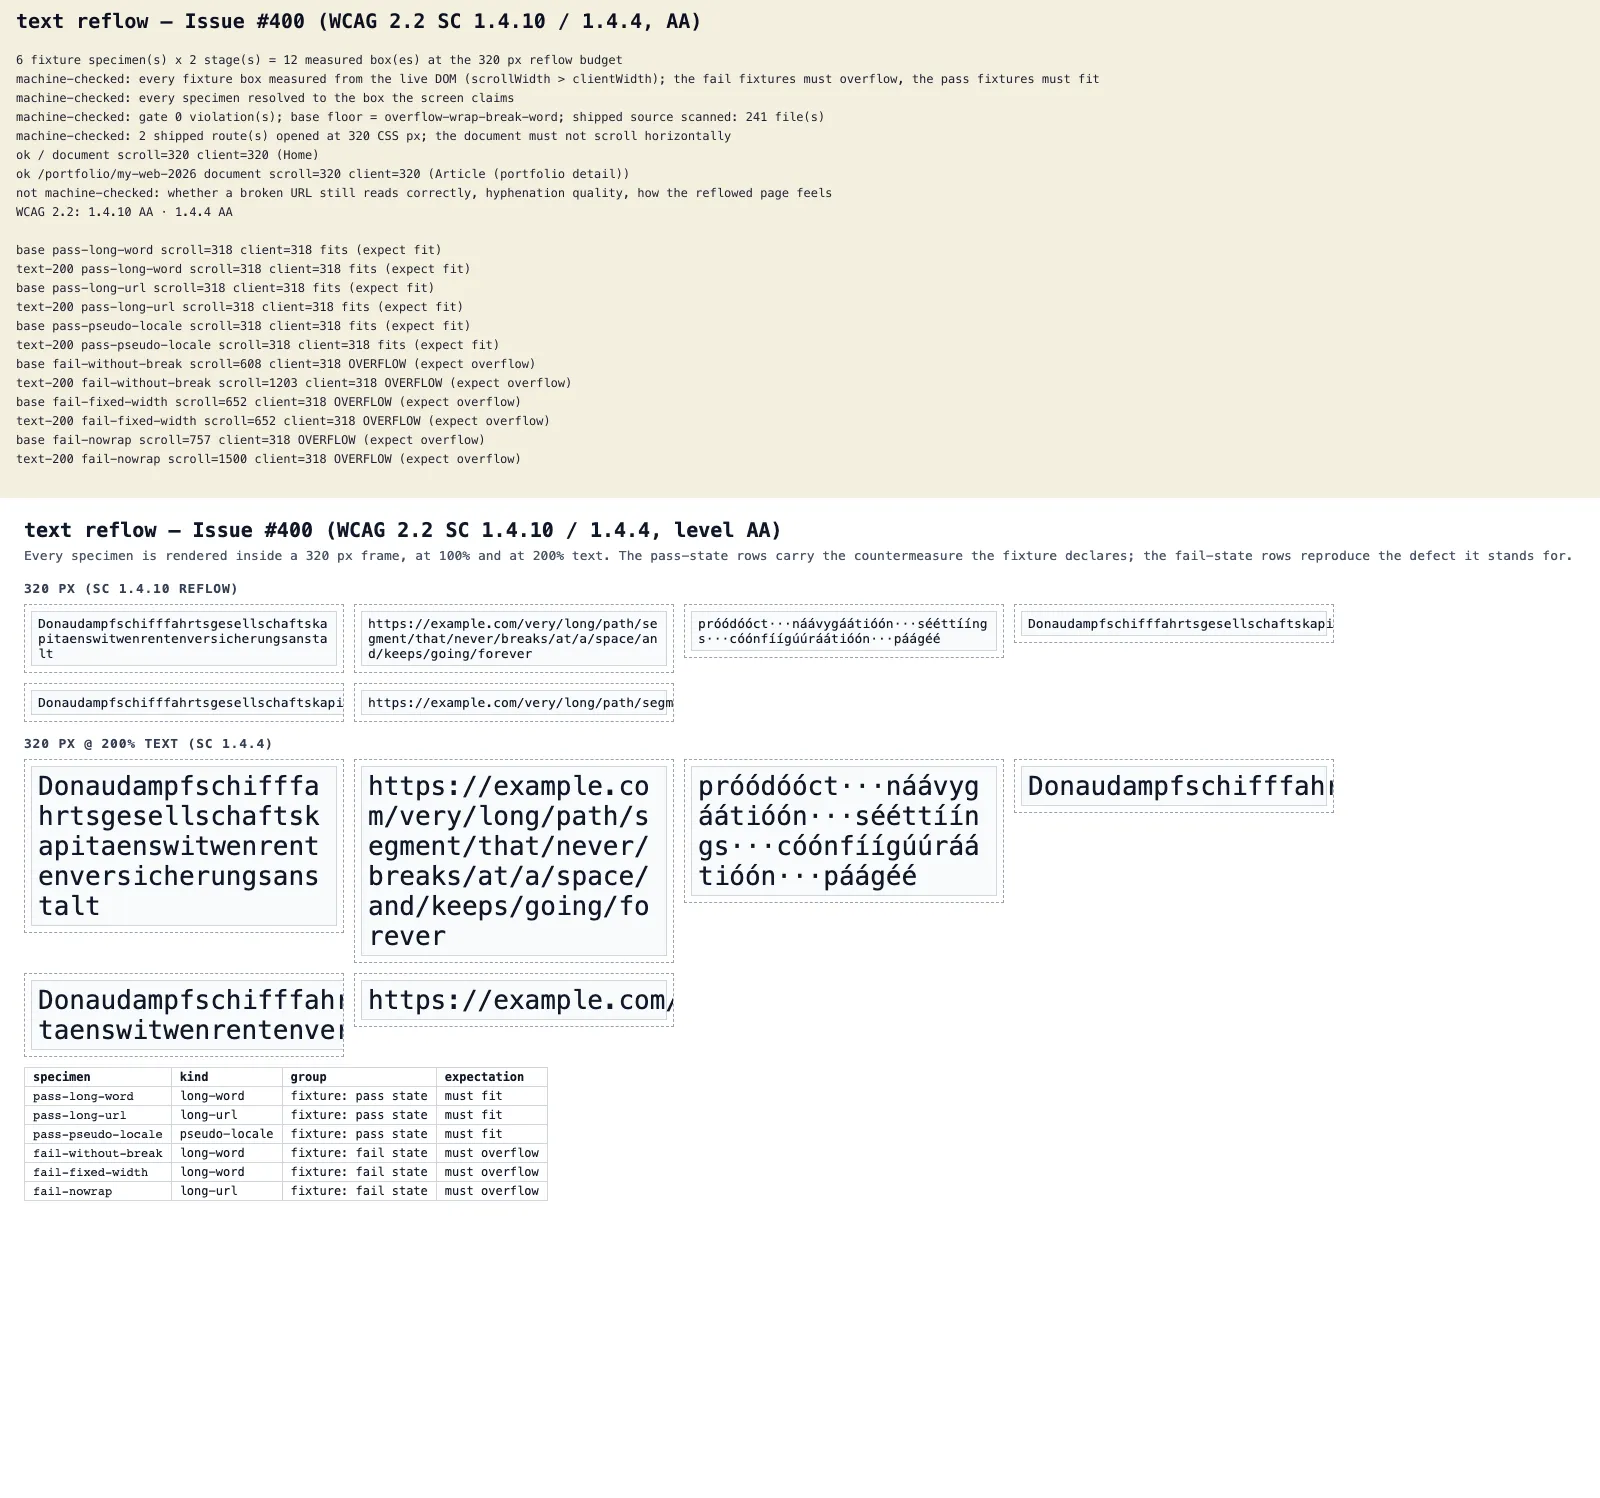
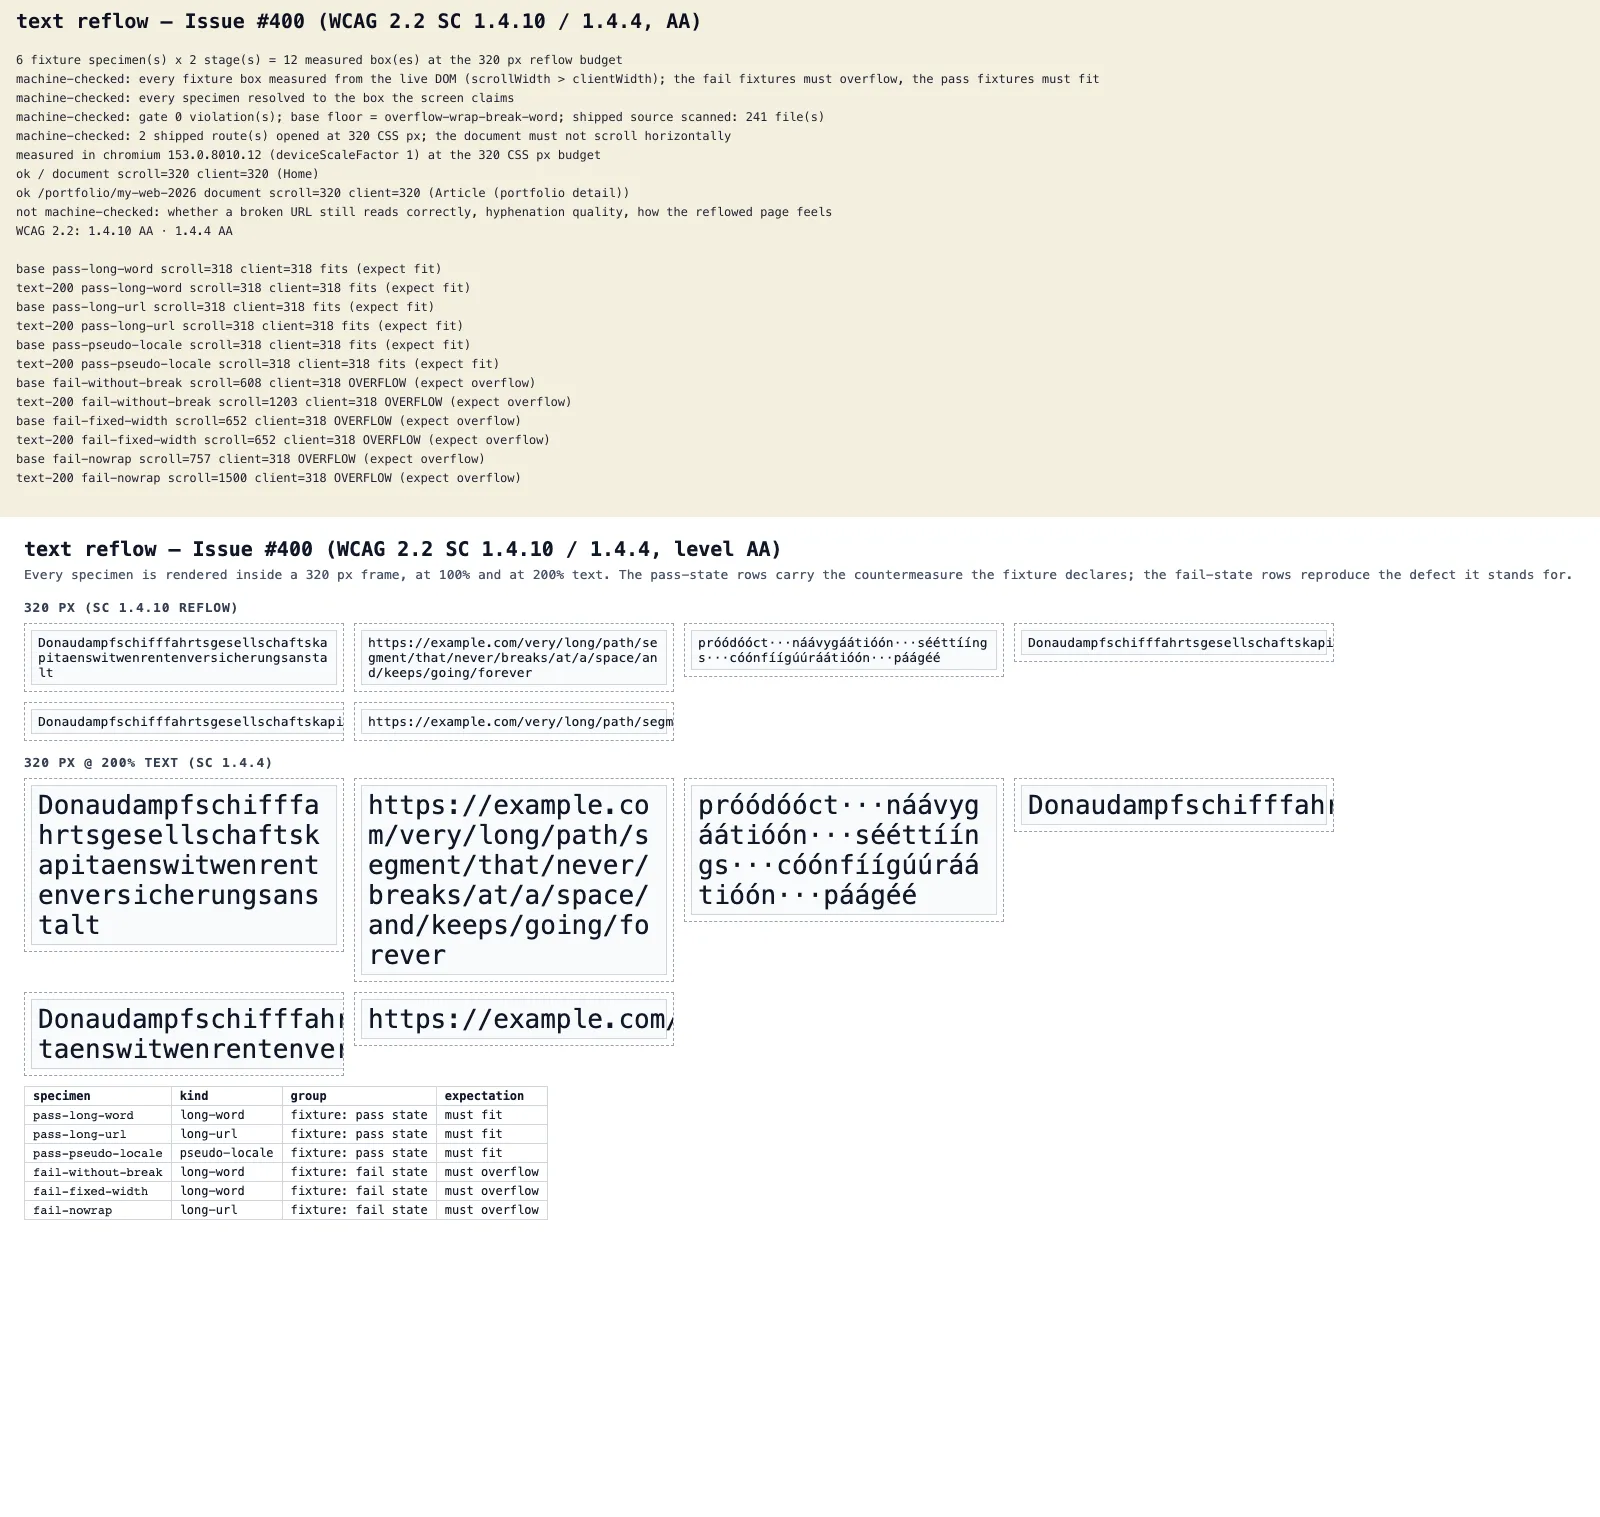
fix(a11y): record the measurement conditions and type-check the fixtures (#400)
The cold re-review of the shipped-surface fix found three gaps it
left open:

- The verification record never said which browser produced the
  measurement, although Issue #400 asks for the command, the browser
  and the viewport to be written down. The capture now records the
  Chromium version, the device scale factor and both viewports in the
  report JSON, and prints them in the artefact header band.
- The fixture files are read as source by the gate and by the capture,
  so nothing compiled them: a syntactically broken fixture kept
  `pnpm run typecheck` green and only failed when somebody ran the
  capture by hand. The reflow fixtures are part of the type check now.
- The write-up carried a stray token and two sentences that mixed
  English words into Japanese ones. The wording is corrected.

Changed region(s): [[0.0, 0.0307, 1.0, 0.7984], [0.4375, 0.4913, 0.8438, 0.6142]]

diff --git a/docs/verification/a11y/reflow.md b/docs/verification/a11y/reflow.md
@@ -80,11 +80,17 @@ gate・fixture・ブラウザハーネスが同じ語彙を読む:
 テスト（`scripts/check-a11y-reflow.test.mjs`）はさらに、fixture ディレクトリの一覧と
 期待表が**完全一致**すること（1 個落としても気付けないテストにしない）を assert する。
 
+fixture は `pnpm run typecheck` の対象でもある（`tsconfig.json` の include に
+`scripts/fixtures/a11y-reflow/**/*.tsx` を含む）。gate と capture は
+fixture を **ソースとして** 読むので、構文が壊れた fixture を谁的かが
+気づかないまま放置すると、CI は緑のまま capture だけが落ちる。型検査が
+その穴を閉じる。
+
 **ブラウザ側の specimen 定義はここ 1 つです。** capture は
 `scripts/fixtures/a11y-reflow/**.tsx` を読み、`data-reflow-specimen`（ID）・
 `data-reflow-kind`（種類）・`style`（対策）・描画テキストを抽出して
 case 表を作る（`deriveSpecimenCases`）。ブラウザ側に同じ 6 個を手書きしても
-いないので、静的側とブラウザ側が別の宣言を判定してしまう drift は起きない。
+いないので、静的側とブラウザ側が別の宣言を判定してしまうずれは起きない。
 `pass/` は「収まる」、`fail/` は「はみ出す」が期待値で、
 capture の case 表と fixture roster の一致は
 `scripts/capture-a11y-reflow.test.mjs` が assert する。
@@ -129,6 +135,12 @@ capture script が `.png` を拒否する規約のため）。
 
 - 生成: `pnpm run capture:a11y-reflow`（**先に `pnpm run build`** が必要。
   出荷 route をローカル preview server で開くため、build が無ければ測定できない）
+- 測定環境: **Chromium**（`chromium.launch()`。バージョンは capture の
+  レポート JSON `browser.version` に記録し、検証画像の上部バンドにも印字する）、
+  **出荷 route の viewport は 320×720 CSS px**（SC 1.4.10 の予算）、
+  **ハーネスページの viewport は 1600×1000 CSS px**、
+  **deviceScaleFactor は 1**（`isMobile: false`）。拡大率ではなく viewport
+  自体を 320 CSS px に固定して測っている
 - 方式: loopback の一時 HTTP サーバに生成したハーネスを置き、Chromium で描画して撮影。
   同じ Chromium で、出荷 route を 320 CSS px の viewport で開いて幅を測る
 - 左（上）: 320 px frame の 100% 描画、右（下）: 同じ frame の 200% テキスト描画
@@ -155,8 +167,8 @@ capture script が `.png` を拒否する規約のため）。
 4. **出荷コードの `white-space: nowrap` / 固定幅が意図的なら、除外を宣言する。**
    `scripts/check-a11y-reflow.mjs` の `SHIPPED_DECLARATION_EXCLUSIONS` に
    **1 件 = (file, declaration, reason)** を書く。理由はコードの中に残す
-   （理由をコードに書かないと、次の編集者が理由 unaware に緩める）。
-   除外は宣言単位なので、同じファイルにqushta 別の `nowrap` を足したら
+   （理由をコードに書かないと、次の編集者が理由を知らずに緩める）。
+   除外は宣言単位なので、同じファイルに別の `nowrap` を足したら
    それは違反のまま残る。現在の除外は次の 6 件:
 
    | file | declaration | 理由の要約 |

diff --git a/docs/verification/a11y/README.md b/docs/verification/a11y/README.md
@@ -12,7 +12,7 @@
 | `reduced-motion-on-off.webp` | #403 | the shipped counter fixture rendered twice in one Chromium — `no-preference` and `reduce` — with the browser-reported `animation-name`, the accessible label, the machine gate's verdict and the WCAG mapping printed above the two panels |
 | `image-alt.webp` | #397 | the image alt / decorative-image contract on one screen: the two states a shipped surface may be in (a meaningful image with an alt, a decorative image with an empty alt plus a decorative mark) and the three states the gate rejects (no alt, an empty alt with no decorative mark, a blank alt), with every image's `alt` attribute and decorative mark read from the live DOM. `image-alt.md` is the write-up |
 | `heading-landmarks.webp` | #398 | the heading outline / landmark contract on one screen: a conforming page (one `main`, one `h1`, contiguous levels) next to a violating one (two `h1`, a skipped level, no `main`), with the per-page verdict of the source gate and the declared rule exemptions printed beside it. `heading-landmarks.md` is the write-up |
-| `reflow.webp` | #400 | the text-reflow contract in two measurements, both at the 320 CSS px budget (SC 1.4.10 Reflow) and at 200% text (SC 1.4.4 Resize Text): the six fixture specimens (the pass fixtures must fit, the fail fixtures must overflow, read as `scrollWidth > clientWidth` from the live DOM) and the shipped routes `/` and `/portfolio/my-web-2026` opened in the same Chromium at 320 CSS px (the document must not scroll horizontally). The header prints the gate verdict, the number of scanned shipped source files and the per-route document width. `reflow.md` is the write-up |
+| `reflow.webp` | #400 | the text-reflow contract in two measurements, both at the 320 CSS px budget (SC 1.4.10 Reflow) and at 200% text (SC 1.4.4 Resize Text): the six fixture specimens (the pass fixtures must fit, the fail fixtures must overflow, read as `scrollWidth > clientWidth` from the live DOM) and the shipped routes `/` and `/portfolio/my-web-2026` opened in the same Chromium at 320 CSS px (the document must not scroll horizontally). The header prints the gate verdict, the number of scanned shipped source files, the per-route document width and the measurement conditions (Chromium version, `deviceScaleFactor` 1, the 320 CSS px viewport). `reflow.md` is the write-up |
 
 ## Reduced motion (Issue #403)
 
